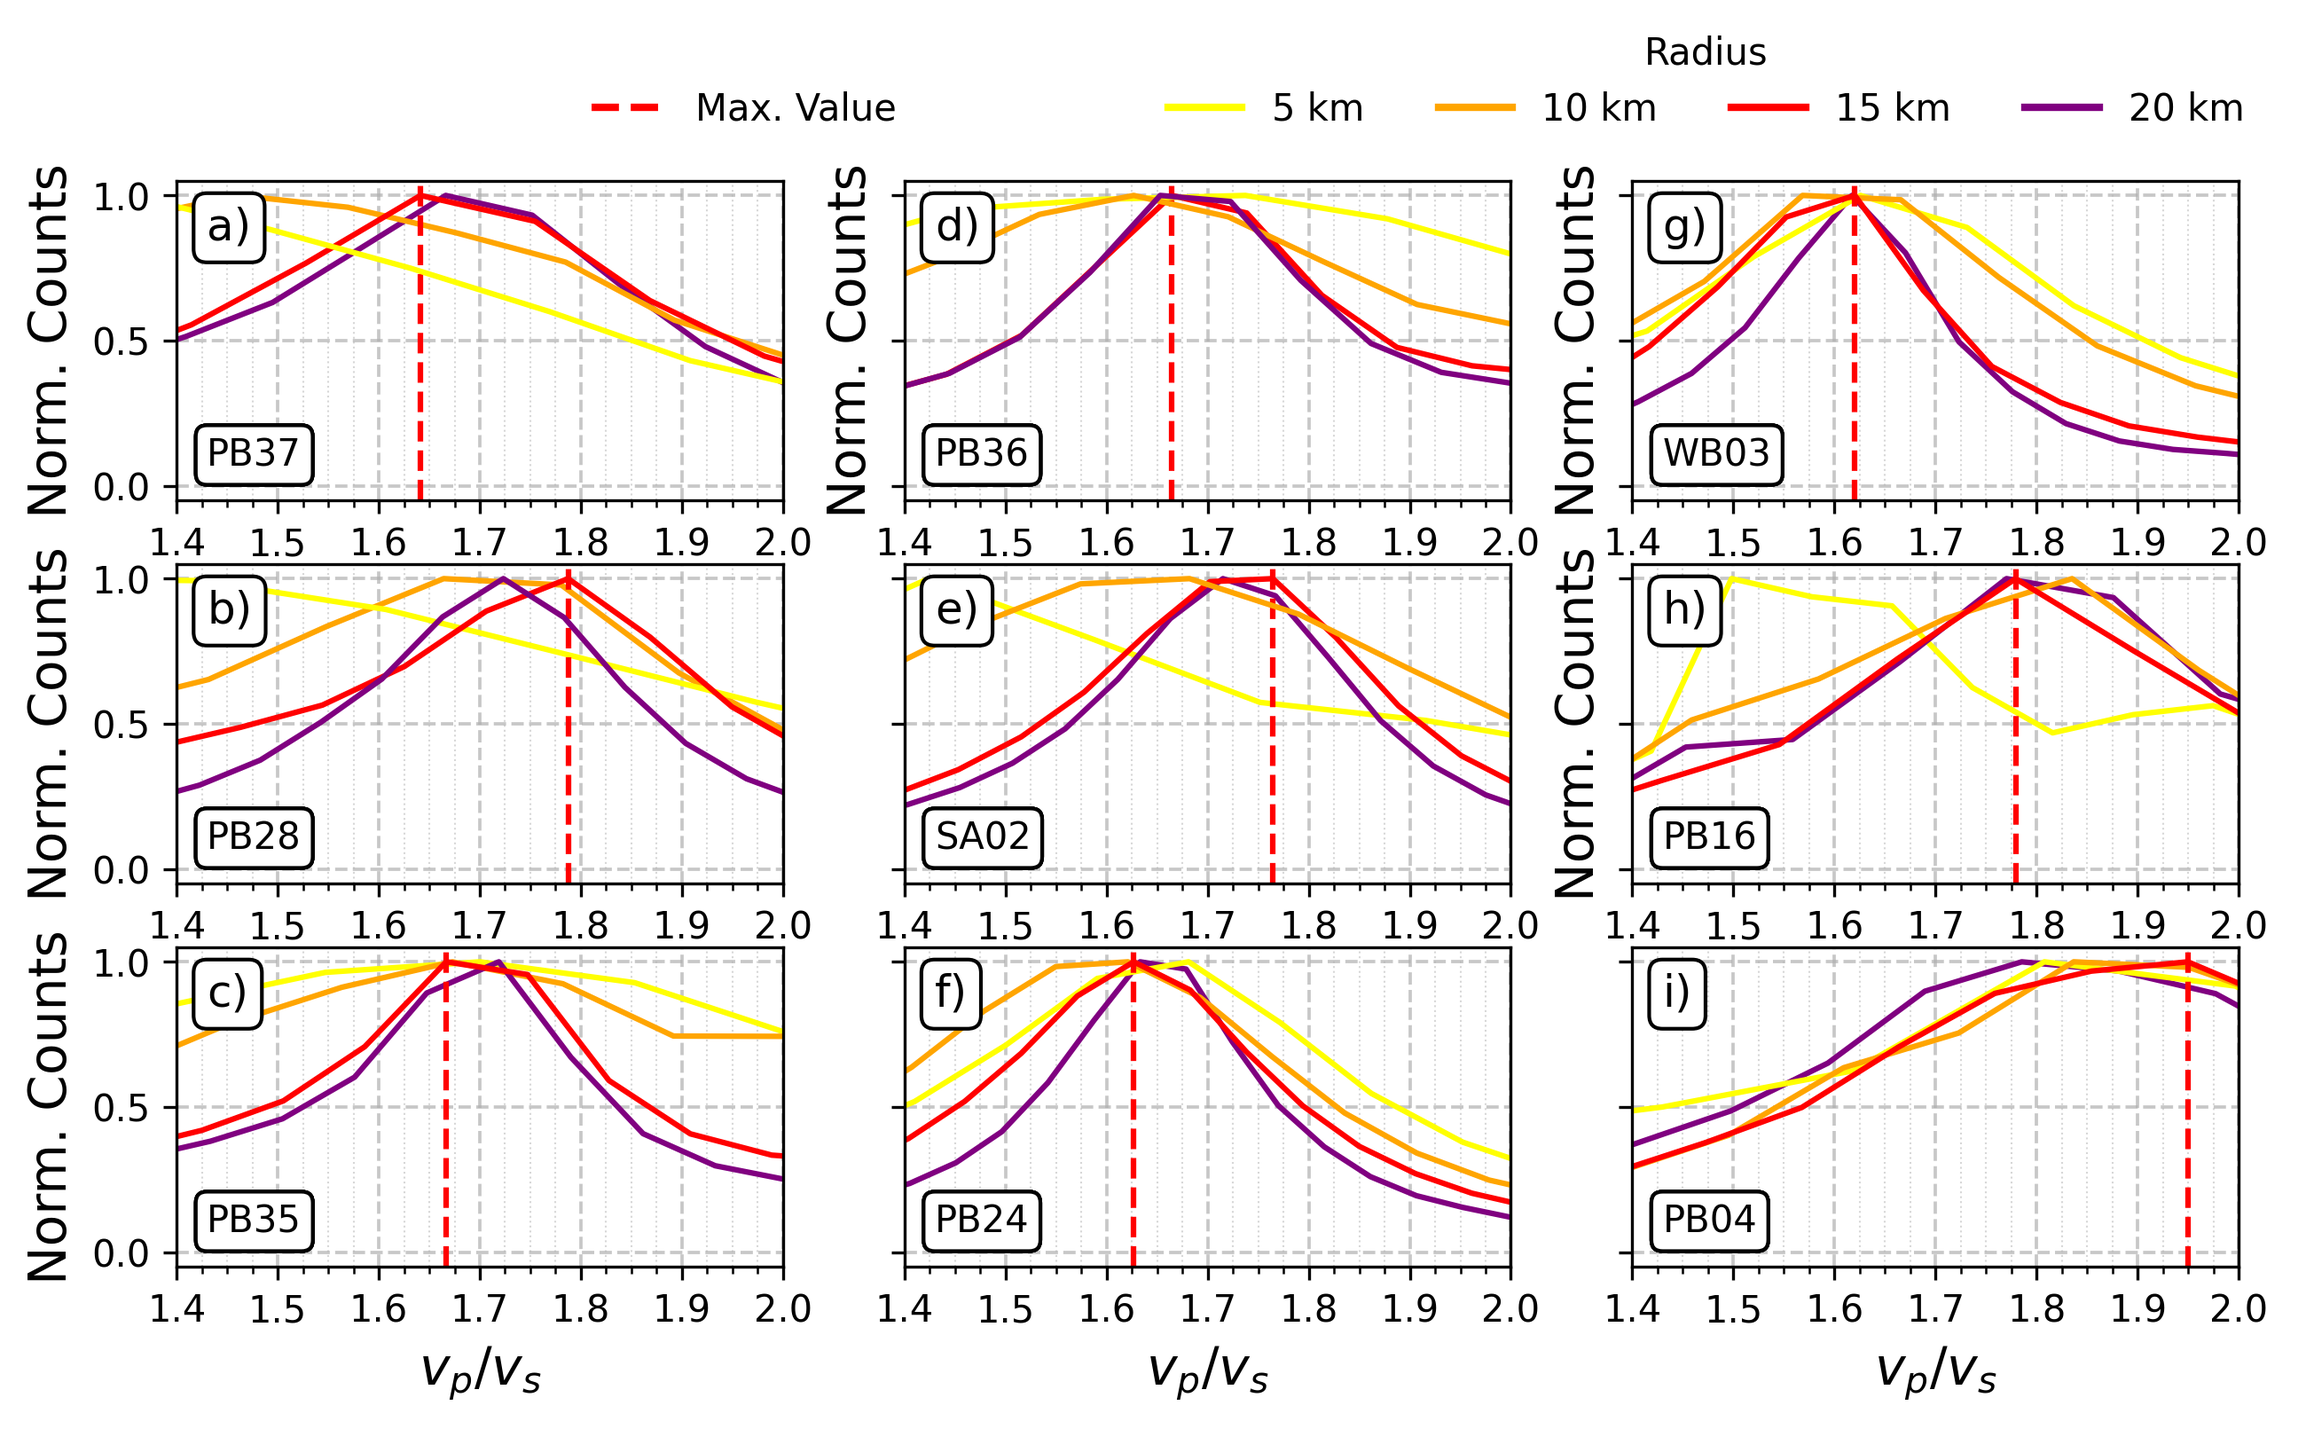
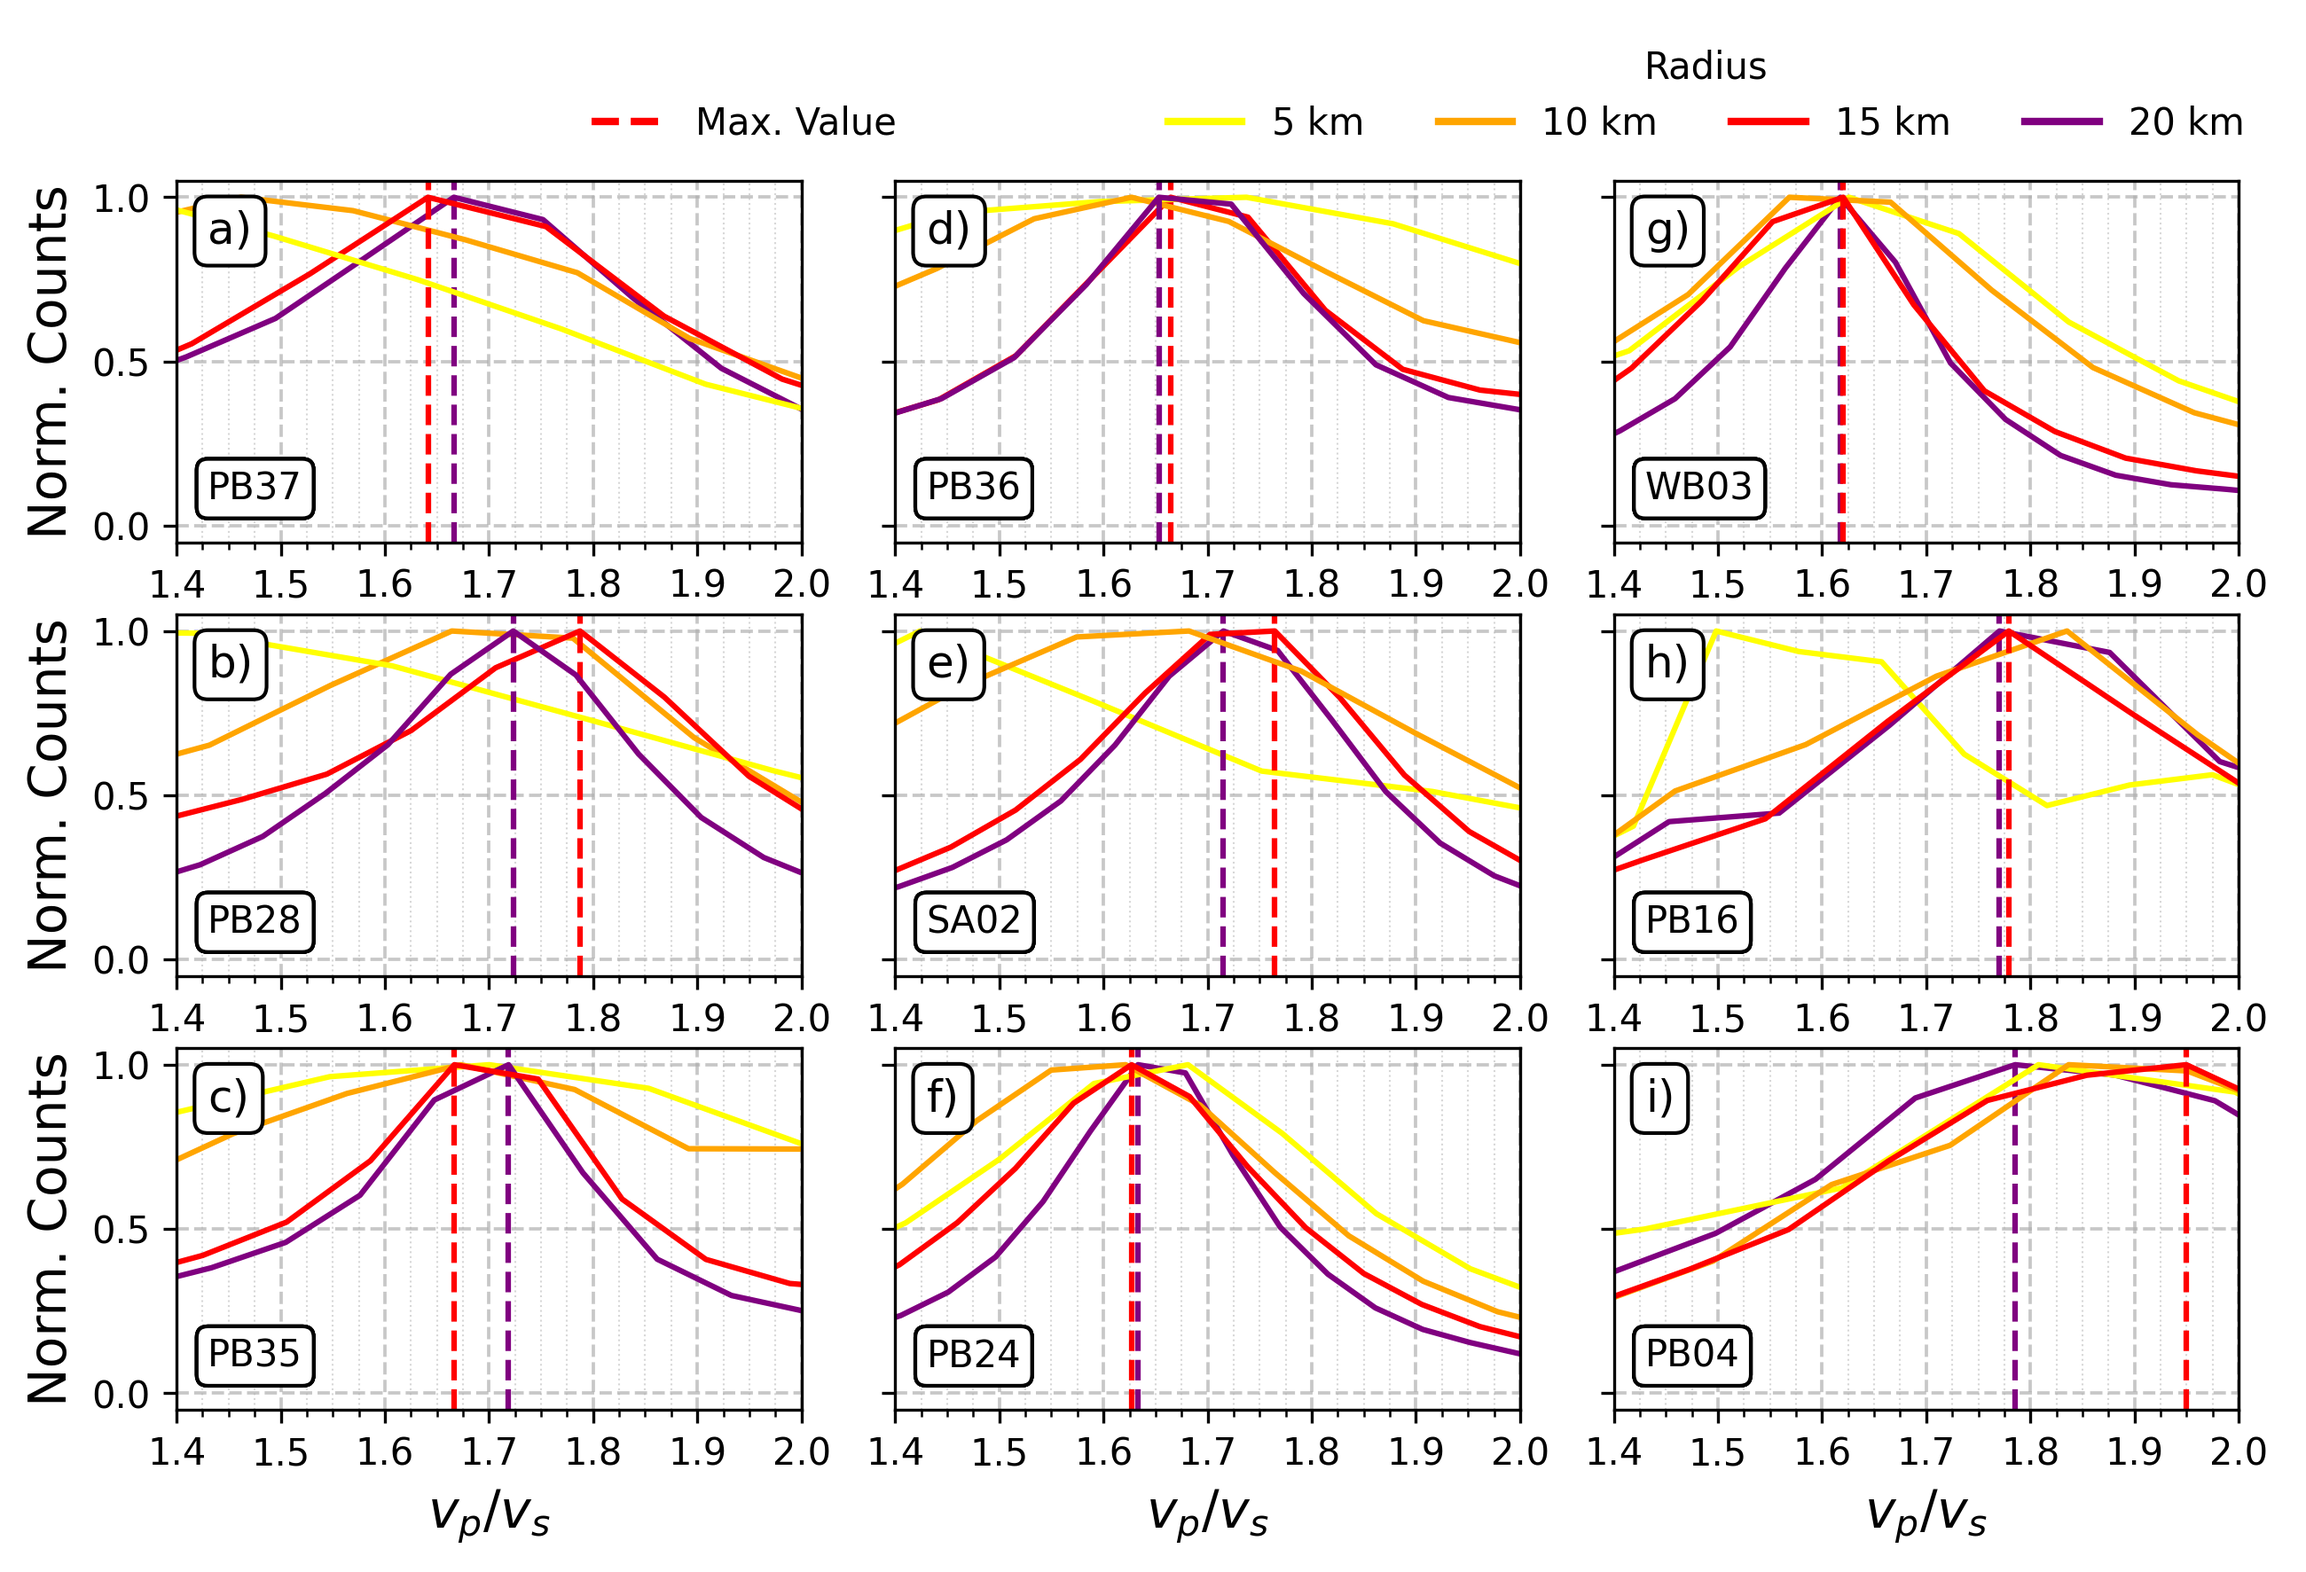
fig2

diff --git a/02032024/project/vpvs/sup_fig_2.py b/02032024/project/vpvs/sup_fig_2.py
@@ -70,8 +70,8 @@ for n,(key,val) in enumerate(custom_palette.items()):
         Q3 = data['v_ij'].quantile(0.90)
         iqr_data = data[(data['v_ij'] >= Q1) & (data['v_ij'] <= Q3)]
         
-        if r=="15":
-            max = "red"
+        if (r=="15") or(r=="20"):
+            max = r_color[r]
         else:
             max = None
         
@@ -80,8 +80,6 @@ for n,(key,val) in enumerate(custom_palette.items()):
                                    ax=axes[col][row],
                                    max=max)
         # Set y-axis label only for the first column
-        if col != 0:
-            axes[row, col].set_ylabel("")
             # axes[row, col].tick_params(left=False)  # Hide y-ticks on other columns
             
         
@@ -94,10 +92,16 @@ for n,(key,val) in enumerate(custom_palette.items()):
                     fontsize="medium", 
                     fontweight="normal",
                     bbox=box)
- 
- 
+
+for ncol in range(cols): 
+    for nrow in range(rows):
+        if ncol != 0 :
+            axes[nrow,ncol].set_ylabel("")
 # axes[1, 2].set_visible(False)    
 # axes[2, 2].set_visible(False)    
+
+
+fig.subplots_adjust(wspace=0.15)  # Modify as needed
 
 legend_elements = [Line2D([0], [0], color=color, 
                 lw=2, label=f"{key} km") \
@@ -123,7 +127,9 @@ fig.legend(handles=legend_max,
            loc=(0.25, 1-0.1),
            frameon=False)
 
+
+
 # plt.subplots_adjust(bottom=0.2)  # Adjust bottom spacing to fit the legend
-plt.subplots_adjust(bottom=0.2)  # Adjust bottom spacing to fit the legend
+# plt.subplots_adjust(bottom=0.2)  # Adjust bottom spacing to fit the legend
 plt.savefig(output_path, dpi=300, bbox_inches='tight')
 plt.show()

diff --git a/02032024/project/vpvs/fig2.py b/02032024/project/vpvs/fig2.py
@@ -96,8 +96,8 @@ for n,(key,val) in enumerate(custom_palette.items()):
         Q3 = data['v_ij'].quantile(0.90)
         iqr_data = data[(data['v_ij'] >= Q1) & (data['v_ij'] <= Q3)]
         
-        if r=="15":
-            max = "red"
+        if (r=="15") or(r=="20"):
+            max = r_color[r]
         else:
             max = None
             
@@ -139,6 +139,6 @@ fig.legend(handles=legend_max,
            frameon=False)
 
 # plt.subplots_adjust(bottom=0.2)  # Adjust bottom spacing to fit the legend
-plt.subplots_adjust(bottom=0.2)  # Adjust bottom spacing to fit the legend
+# plt.subplots_adjust(bottom=0.2)  # Adjust bottom spacing to fit the legend
 plt.savefig(output_path, dpi=300, bbox_inches='tight')
 plt.show()
